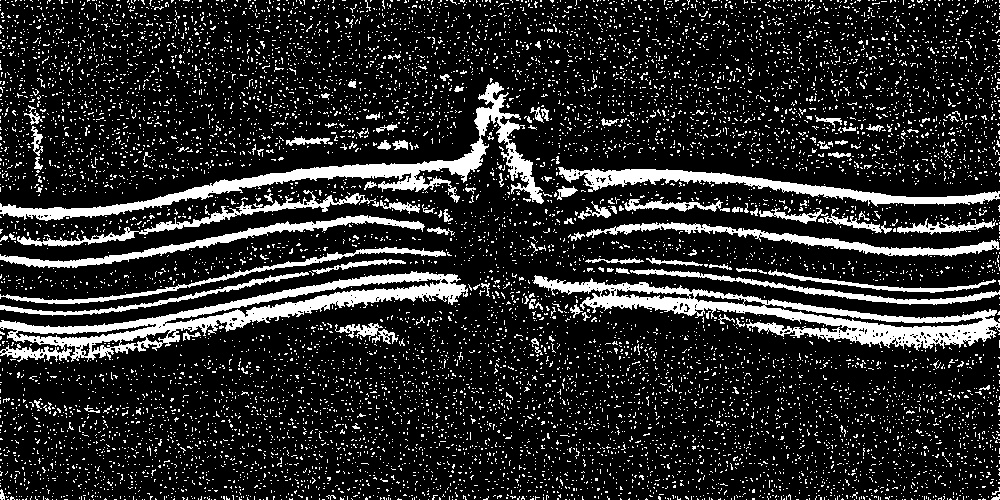
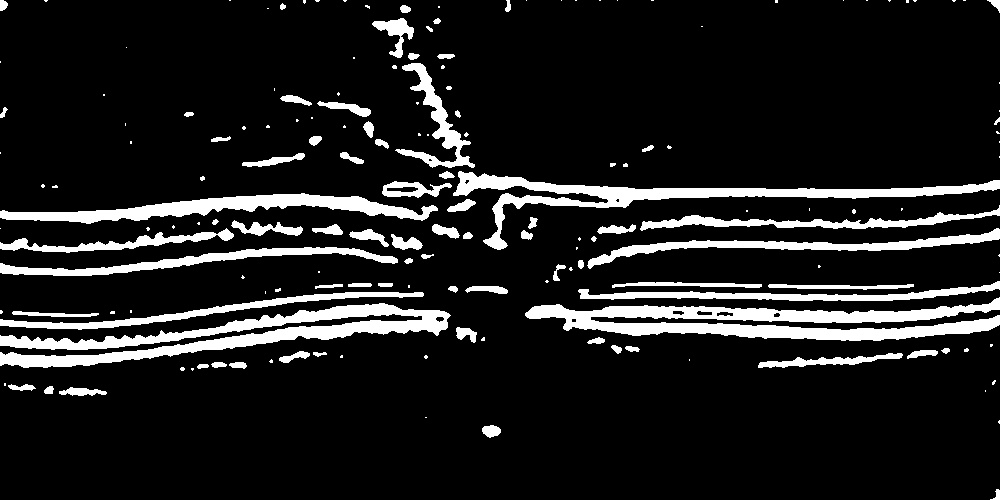
added medianBlur noise reduction to initial image thresholding

diff --git a/OCTseg.py b/OCTseg.py
@@ -9,16 +9,24 @@ print("testing")
 print(os.getcwd())
 
 # read in and save a jpeg
-img = cv2.imread('/home/maxberko/seg_automation/example_stack.jpg')
+img = cv2.imread('/home/maxberko/seg_automation/B.jpg')
 
 grayscaled = cv2.cvtColor(img, cv2.COLOR_BGR2GRAY)
 
 ## adaptive gaussian thresholding
 # second to last value: focuses on how specific to filter color (higher value = sloppy thresholding)
 # last value: switches between black (neg) and white (pos) -- higher values increase intensity
-threshold = cv2.adaptiveThreshold(grayscaled, 255, cv2.ADAPTIVE_THRESH_GAUSSIAN_C, cv2.THRESH_BINARY, 37, -2.5)
+threshold = cv2.adaptiveThreshold(grayscaled, 255, cv2.ADAPTIVE_THRESH_GAUSSIAN_C, cv2.THRESH_BINARY, 37, -2)
 
-cv2.imwrite('/home/maxberko/seg_automation/modified.jpg', threshold)
+# TODO-- find a better way to clean up picture
+# remove salt and pepper noise
+# this removes the need for imageJ entirely
+median_reduction = cv2.medianBlur(threshold, 5)
+median_reduction = cv2.medianBlur(median_reduction, 5)
+
+
+cv2.imwrite('/home/maxberko/seg_automation/modified.jpg', median_reduction)
+
 
 print('loading modified image')
 #NEXT STEP:
@@ -28,14 +36,14 @@ print('loading modified image')
 
 # locate vertical color divisions
 # opencv uses BGR
-img = cv2.imread('/home/maxberko/seg_automation/B_despeck.jpg')
+img = cv2.imread('/home/maxberko/seg_automation/modified.jpg')
 
 # make binary copy
 ## this binary will not be saved but will
 ## be used to determine where to draw lines on the
 ## grayscaled version
 ## VALUES: 0-black, 255-white
-img_bw = cv2.imread('/home/maxberko/seg_automation/B_despeck.jpg', cv2.IMREAD_GRAYSCALE)
+img_bw = cv2.imread('/home/maxberko/seg_automation/modified.jpg', cv2.IMREAD_GRAYSCALE)
 (thresh, binary) = cv2.threshold(img_bw, 128, 255, cv2.THRESH_BINARY | cv2.THRESH_OTSU)
 
 #rows, cols = img.shape
@@ -80,11 +88,12 @@ def intersect(a, b):
 
 # [x1, y1] [x2, y2]
 def slope(a, b):
-	return (b[1] - a[1]) / (b[0] - a[0])
+	return float(b[1] - a[1]) / (b[0] - a[0])
 
 ##################################
 # Goes through and marks segments 
-# in first and last half of image
+# in left  and right halves of image.
+# Also saves coordinates.
 ##################################
 def calc_left(x_coord_arr, top):
 	# left side of img
@@ -104,7 +113,7 @@ def calc_right(x_coord_arr):
 		#top.append(pair)
 
 # data must be numpy array
-def reject_outliers(data):
+def reject_outliers(data, m=1):
 	y = [y[1] for y in data]
 
 	elements = np.array(y)
@@ -114,7 +123,7 @@ def reject_outliers(data):
 	# gathers list of data points to remove
 	iter_list = []
 	for i in range(len(y)):
-		if (y[i] < mean - 1 * sd) or (y[i] > mean + 1 * sd):
+		if (y[i] < mean - m * sd) or (y[i] > mean + m * sd):
 			iter_list.append(data[i])
 
 	# remove points from data set
@@ -125,15 +134,15 @@ def reject_outliers(data):
 
 	return data
 
-
 print('Calculating intersections')
 x_coord_arr = collect_coordinates()
 
 top = []
 top = calc_left(x_coord_arr, top)
 
+#cv2.circle(img, (top[1][0], top[1][1]), 15, (0,255,0), -1)
+
 print('pruning outliers')
-top = reject_outliers(top)
 #top = reject_outliers(top)
 #top = reject_outliers(top)
 ## TODO-- repeat
